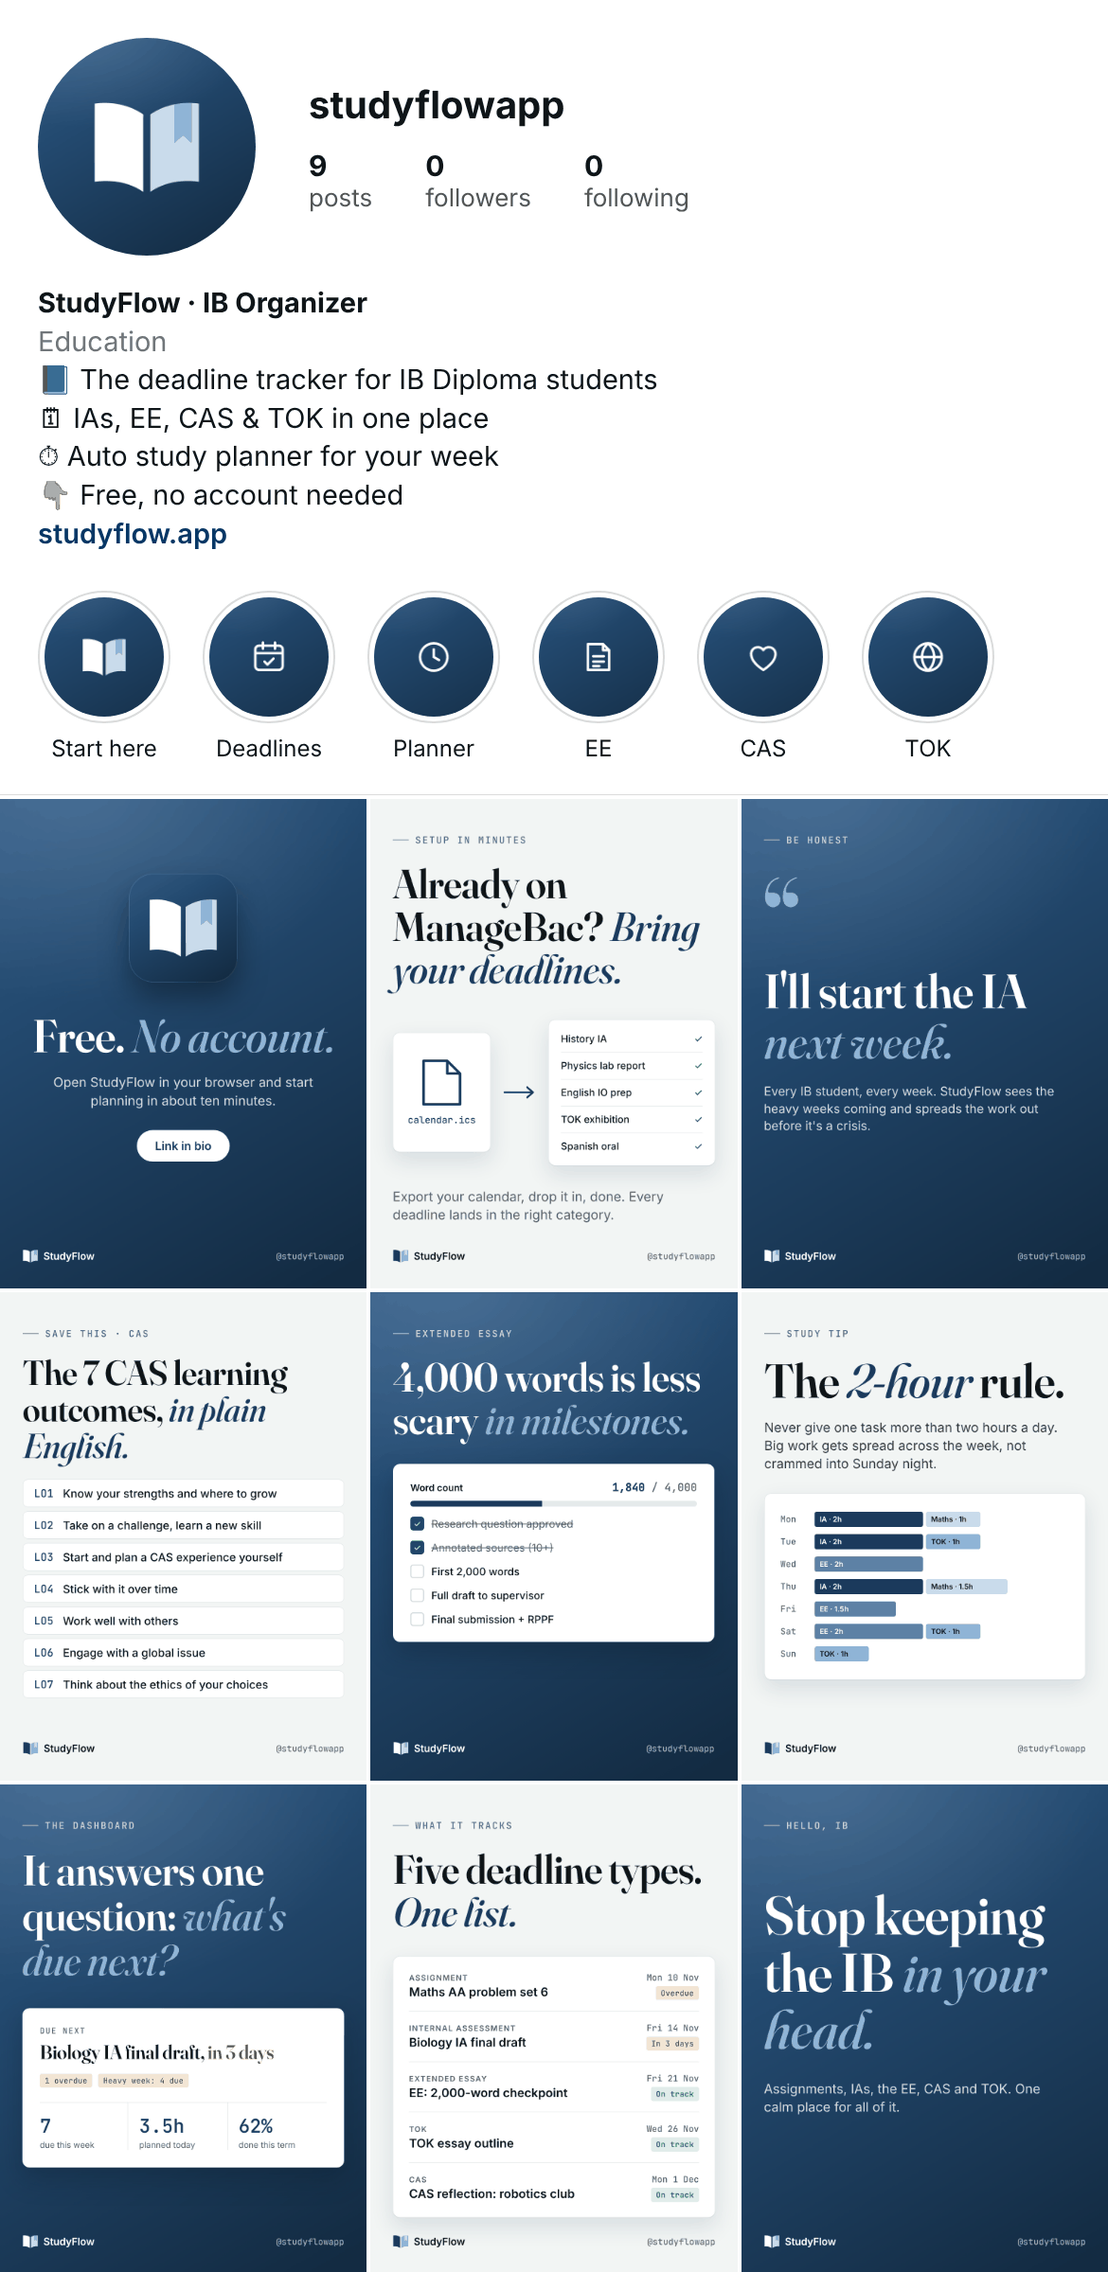
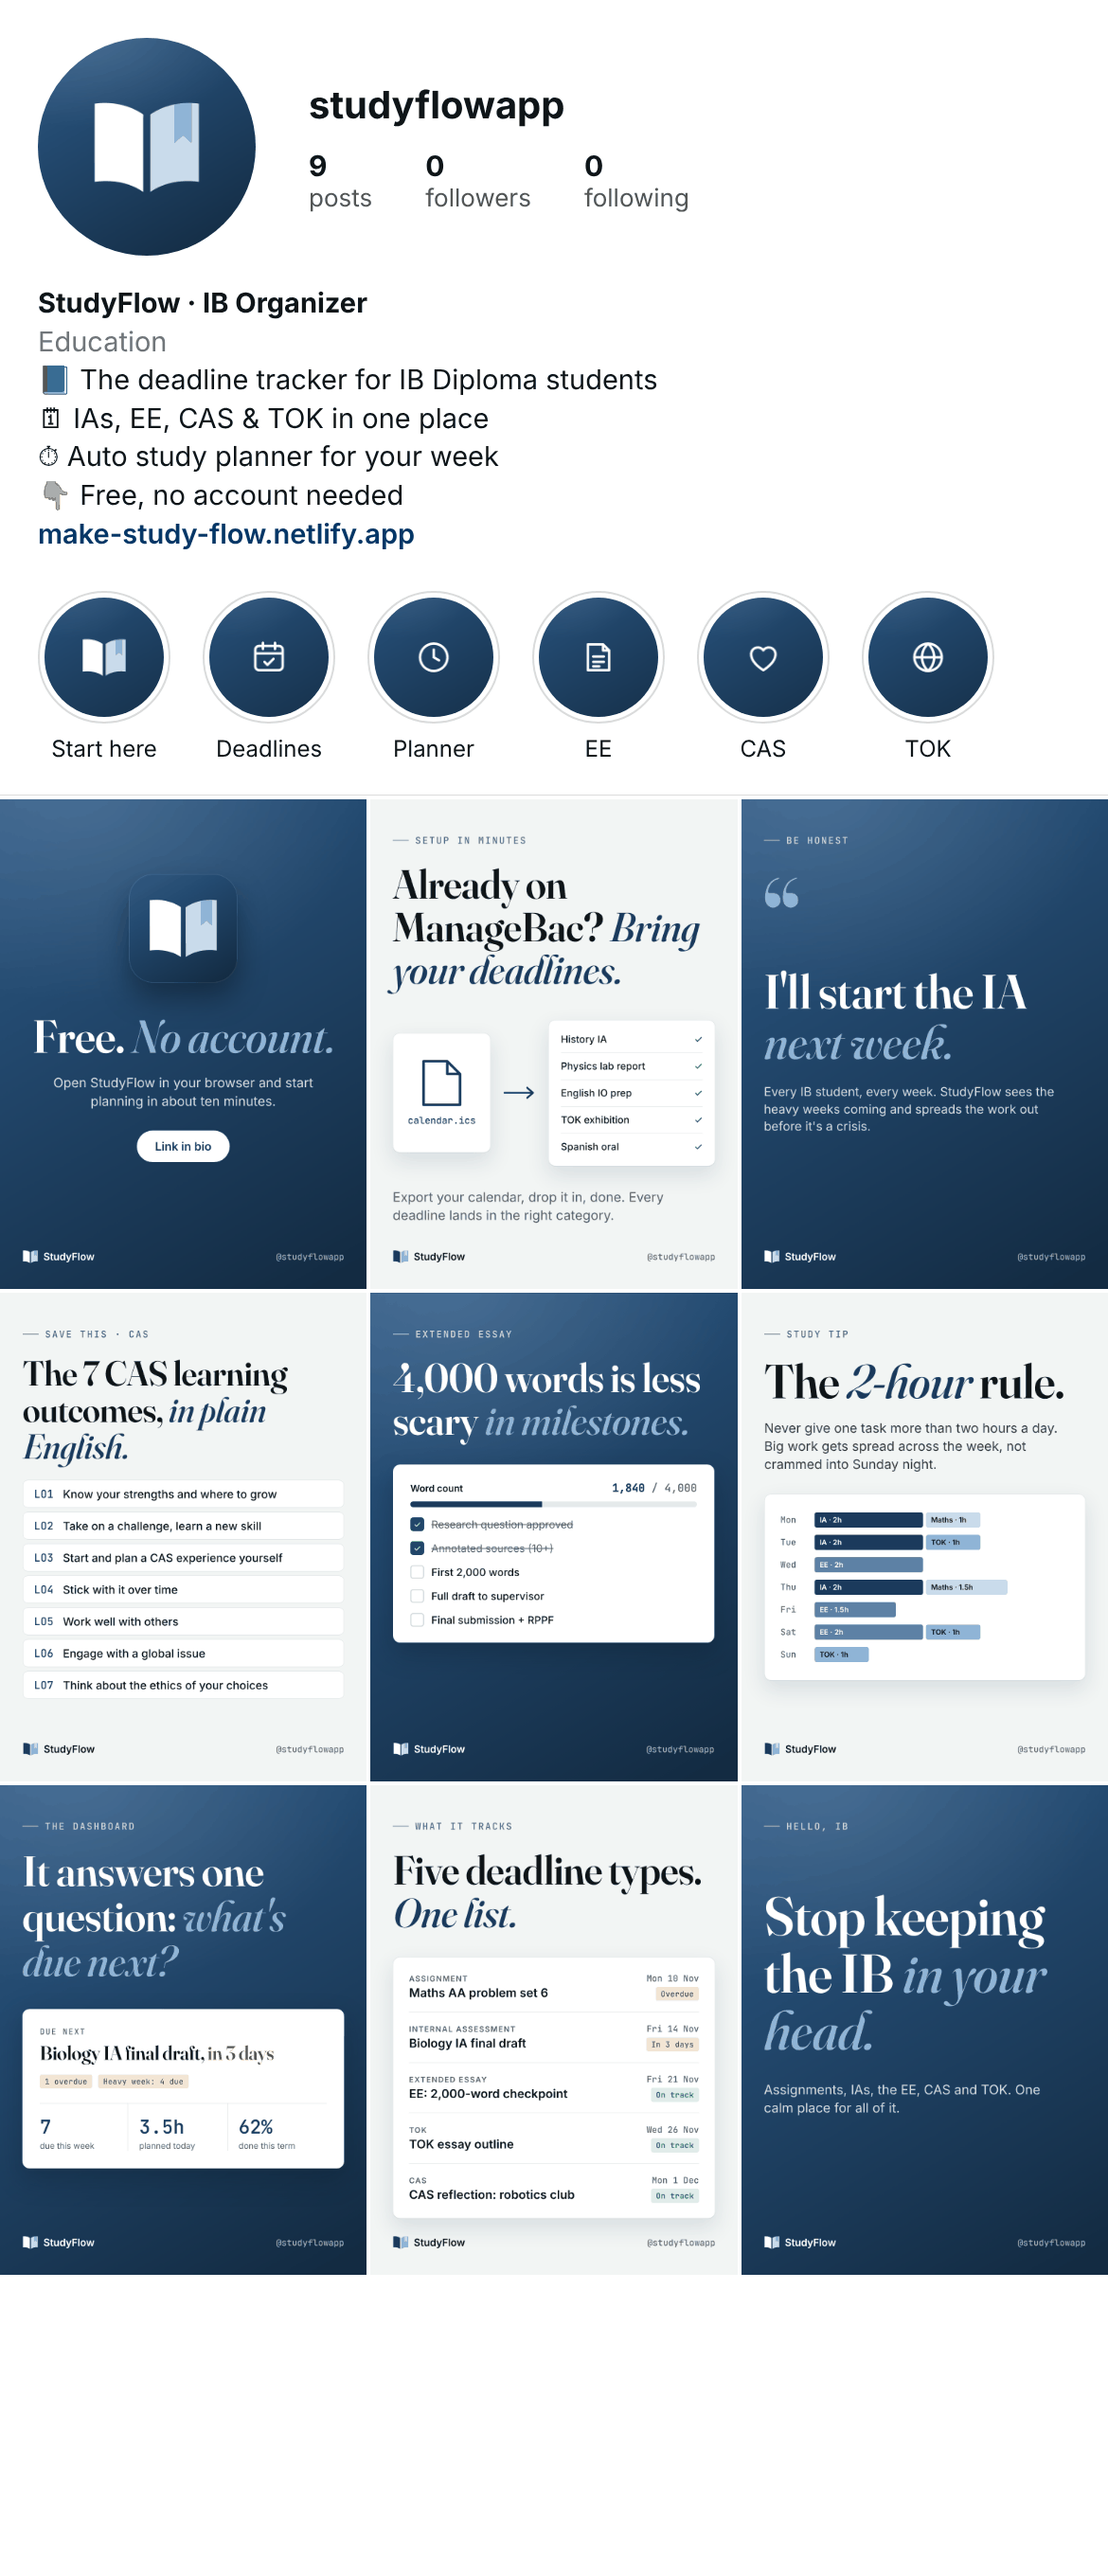
Add three Instagram launch posts and the live link
'We've arrived', 'We came for you, IB students' and a 'What is
StudyFlow?' explainer showing make-study-flow.netlify.app, with
captions, a launch-row profile preview, and the real URL in the kit.

Claude-Session: https://claude.ai/code/session_014Go2ShY8Tw8dEkhtas6c6t

diff --git a/marketing/instagram/INSTAGRAM.md b/marketing/instagram/INSTAGRAM.md
@@ -1,7 +1,8 @@
 # StudyFlow Instagram kit
 
-Everything in this folder is ready to upload. `preview-profile.png` shows how
-the finished profile will look.
+Everything in this folder is ready to upload. `preview-launch.png` shows the
+profile after the three launch posts, and `preview-profile.png` after the
+nine-post grid.
 
 ---
 
@@ -13,7 +14,7 @@ the finished profile will look.
 | **Name** | `StudyFlow · IB Organizer` (the Name field is searchable, so "IB Organizer" helps students find you) |
 | **Profile picture** | `profile-picture.png` |
 | **Category** | Education (switch to a free *Creator* or *Business* account to show it and get Insights) |
-| **Link** | Your live Netlify URL. Add a second link to the app (`/app/`) if you like |
+| **Link** | `https://make-study-flow.netlify.app/` |
 
 **Bio** (141 of 150 characters, paste as-is, line breaks included):
 
@@ -26,7 +27,68 @@ the finished profile will look.
 
 ---
 
-## 2. Story highlights
+## 2. Launch posts: post these three first
+
+Post them in this order. On the profile they read as one row, with the
+explainer on the left and "We've arrived" on the right. Links in captions
+aren't clickable on Instagram, so each caption points to the link in your bio.
+
+### Launch 1 · We've arrived
+`post-launch-1-we-have-arrived.png`
+
+```
+We've arrived. 📘
+
+StudyFlow is officially live: a free organizer built from the ground up for IB Diploma students.
+
+IAs, the Extended Essay, CAS, TOK and every assignment, finally in one calm place.
+
+Follow along, because IB life is about to get a lot more organised. ✨
+
+#IBDP #IBstudent #InternationalBaccalaureate #IBDiploma #studygram #newapp
+```
+
+### Launch 2 · We came for you, IB students
+`post-launch-2-made-for-ib-students.png`
+
+```
+We came for you, IB students. 🫵
+
+Generic to-do apps don't know what an IA is. They don't track your EE word count, your CAS learning outcomes or your TOK essay.
+
+StudyFlow does. Every part of it is built around the Diploma:
+📝 Internal Assessments
+📚 Extended Essay
+💙 CAS
+🌍 TOK
+📋 Assignments across all 50 DP courses
+
+Tag an IB friend who needs this 👇
+
+#IBDP #IBstudent #IBDiploma #ExtendedEssay #InternalAssessment #CAS #TOK
+```
+
+### Launch 3 · What is StudyFlow?
+`post-launch-3-what-is-studyflow.png`
+
+```
+So what is StudyFlow? Your whole IB, in one app. 📲
+
+01 · Smart dashboard: see what's due next and what's slipping, at a glance
+02 · Study planner: tell it your free hours and it builds your next 14 days
+03 · EE & CAS tracking: word count, milestones and learning outcomes
+04 · ManageBac import: bring your existing deadlines in one step
+
+It's free, runs in your browser, and needs no account.
+
+👉 make-study-flow.netlify.app (link in bio)
+
+#IBDP #IBstudent #studyplanner #studyapp #IBDiploma #ManageBac #productivity
+```
+
+---
+
+## 3. Story highlights
 
 Post each cover as a story, then add it to a highlight and choose it as the
 cover. The icon sits in the centre, so Instagram's circle crop fits it exactly.
@@ -43,7 +105,7 @@ cover. The icon sits in the centre, so Instagram's circle crop fits it exactly.
 
 ---
 
-## 3. The launch grid: post in this order
+## 4. The nine-post grid: post after the launch trio
 
 The nine posts alternate navy and light backgrounds, so the profile always
 shows a checkerboard. **Post them in number order** (01 first). Instagram puts
@@ -202,7 +264,7 @@ Link in bio. Tell us your subjects in the comments 👇
 
 ---
 
-## 4. Launch story
+## 5. Launch story
 
 `story-launch.png` (1080×1920). Post it on launch day and put a **Link
 sticker** over the dashed box at the bottom. Then add a poll sticker: *"How
@@ -211,7 +273,7 @@ Save it to the **Start here** highlight.
 
 ---
 
-## 5. Hashtags
+## 6. Hashtags
 
 Use 5 to 8 per post, mixing big and niche tags. Rotate them rather than
 pasting the same block every time.
@@ -223,7 +285,7 @@ pasting the same block every time.
 
 ---
 
-## 6. After launch: what to post
+## 7. After launch: what to post
 
 Aim for **3 posts a week** plus stories most days. Rotate four content types:
 
@@ -250,8 +312,8 @@ students are actively looking for help.
 
 ---
 
-## 7. Ground rules
+## 8. Ground rules
 
 - **Only claim what's true.** StudyFlow has no users yet, so no "thousands of students love it" and no made-up reviews. The posts here only state facts about the app.
 - **Reply to every comment** in the first weeks. Early engagement tells the algorithm the account is worth showing.
-- Instagram allows only one bio link, so point it at the marketing page, which links to the app.
+- Instagram allows only one bio link: `https://make-study-flow.netlify.app/`. The marketing page links on to the app.
